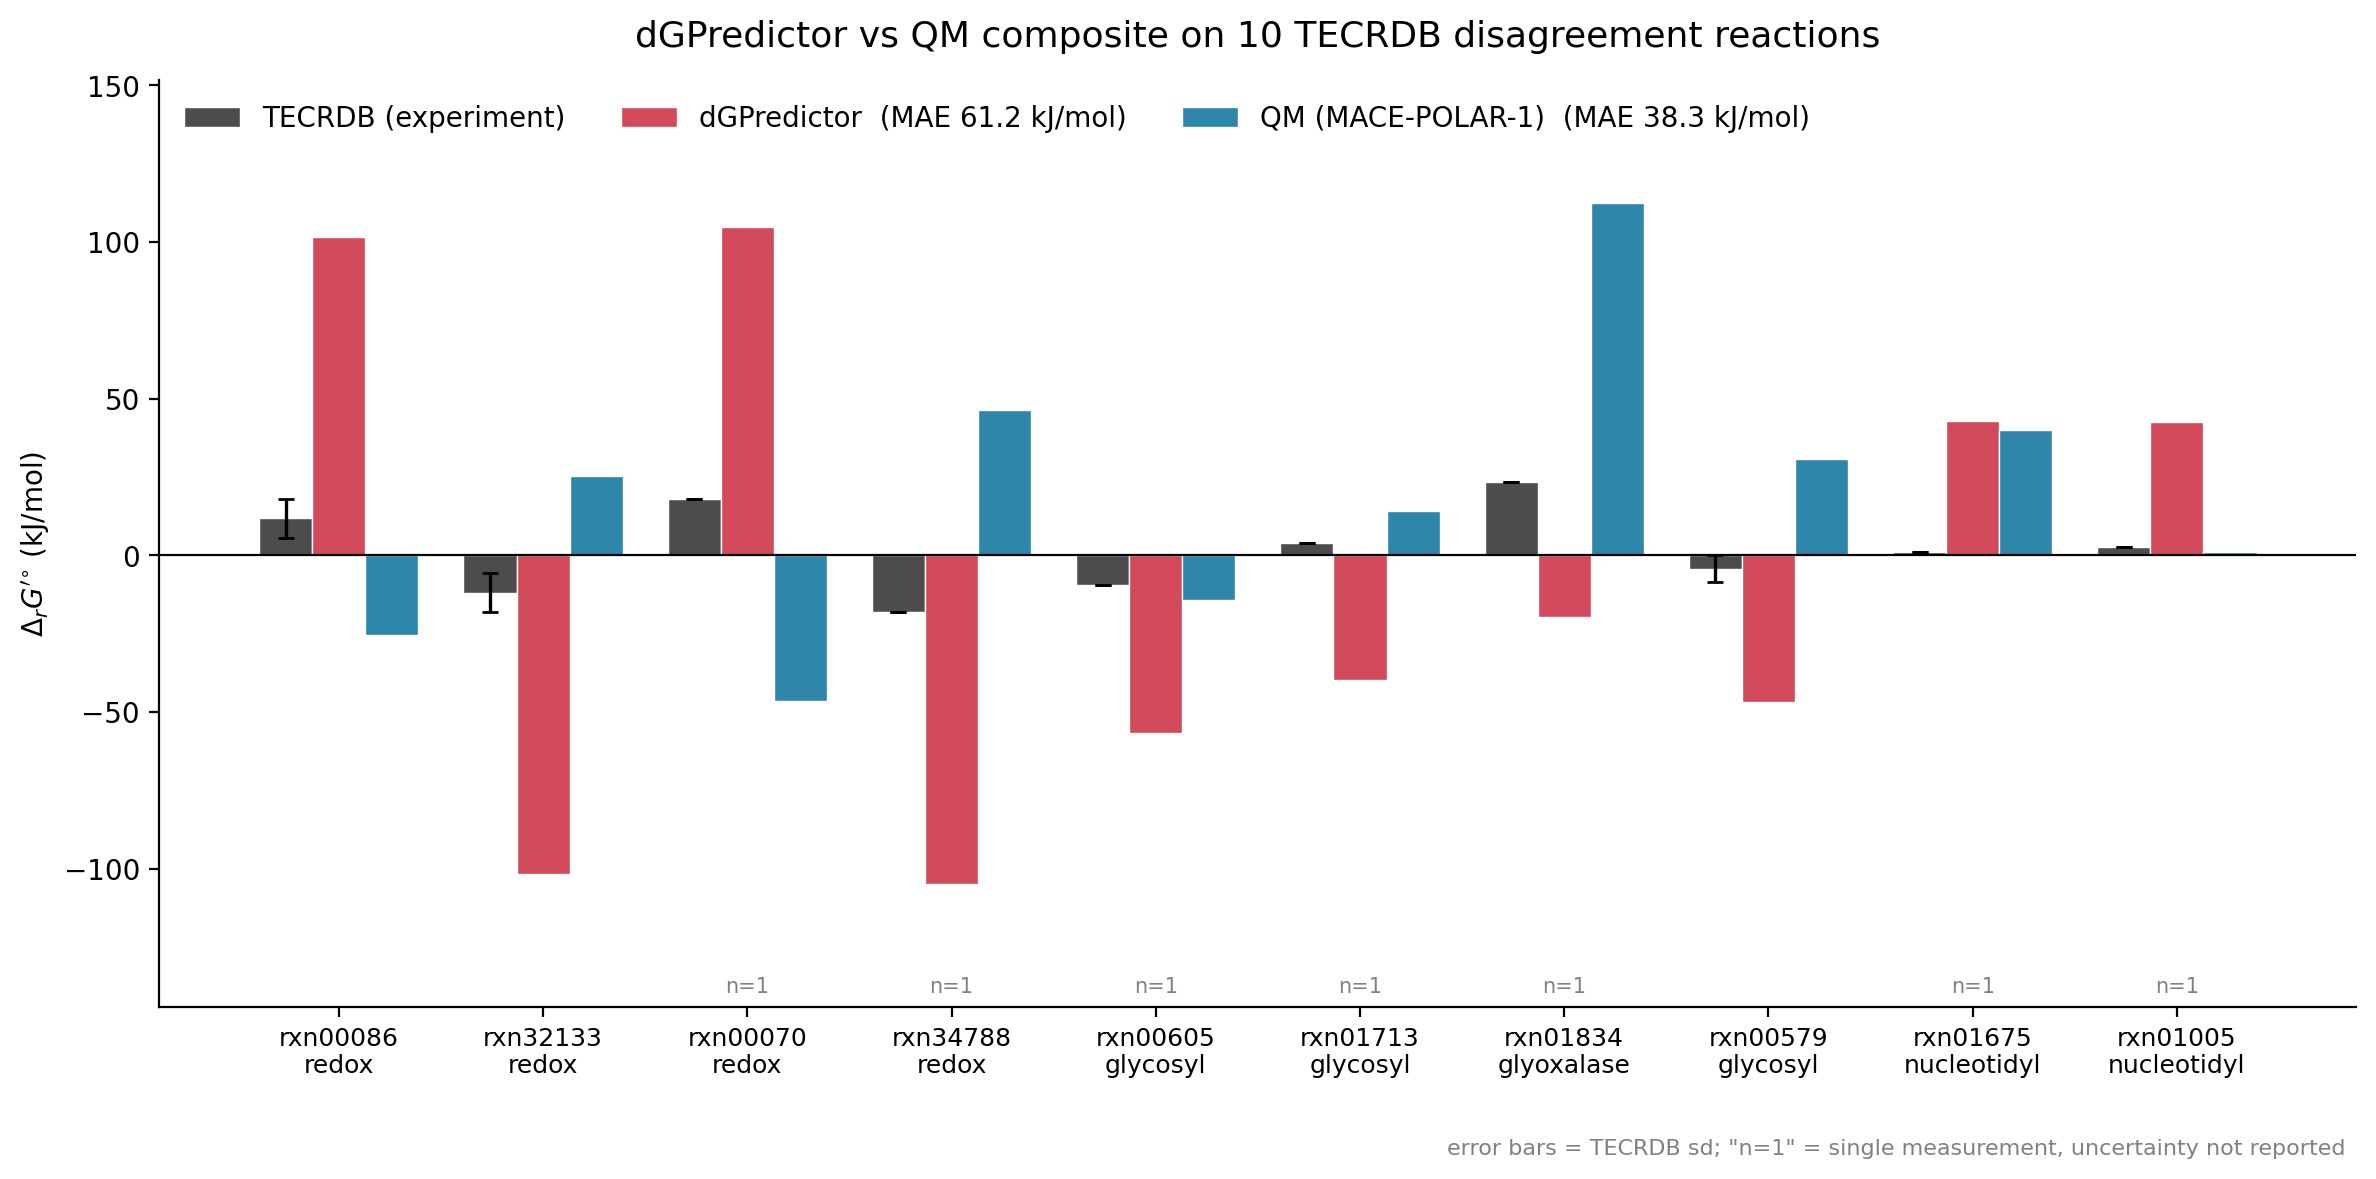
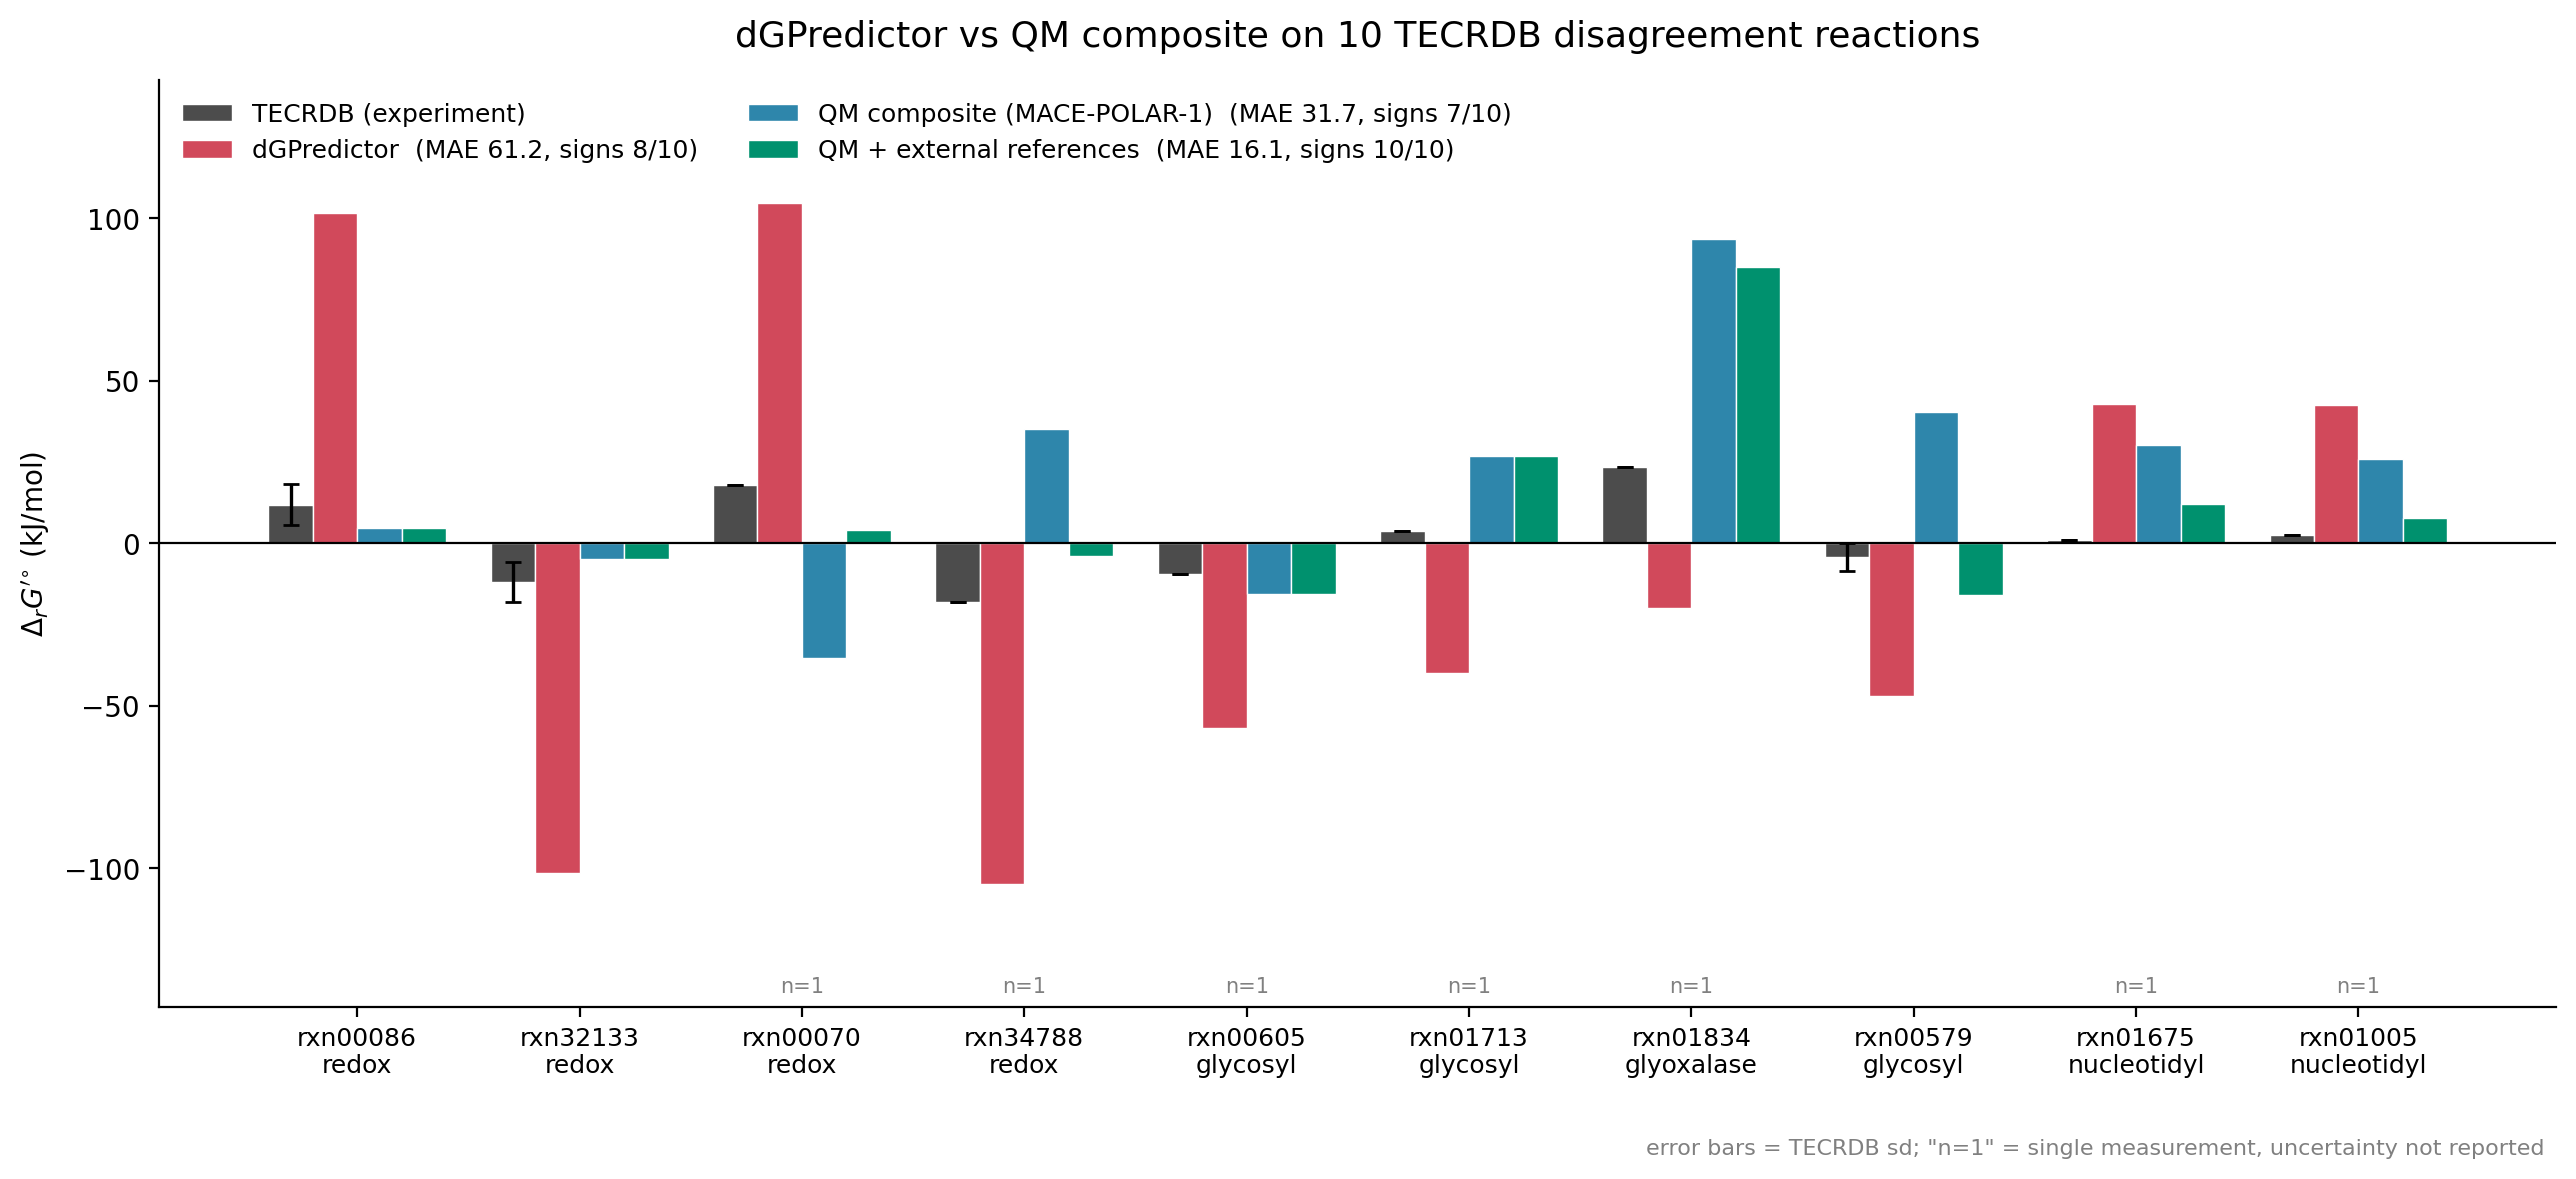
Fix the comparison figure: plot the reported baseline, add the referenced column
The committed figure was wrong in three ways and had been read as the result.

1. It plotted "fixed-species pH midpoint [diag]" and captioned it "QM". That
   column is a sensitivity diagnostic, not the reported model, and it overstated
   the error as 38.3 where the baseline is 31.7.
2. It predated the GSH thiol microspecies fix (its rxn00086 QM bar was -26; the
   current value is +4.7).
3. It had no external-reference series at all.

plot_comparison.py now draws the reported baseline plus the referenced column,
skipping any series absent from the CSV so it still works in --pH-mode fixed.
Bar offsets are computed from the series count rather than hardcoded for three.
Legends carry sign counts as well as MAE. The reaction-class second label line,
present in the old rendering but not in the committed script, is restored from
reaction_classes.json.

Regenerated from the current perreaction_dG.csv and synced to the two tracked
copies (pipeline/, slides/figures/).

diff --git a/pipeline/plot_comparison.py b/pipeline/plot_comparison.py
@@ -5,6 +5,7 @@ dGPredictor-TECRDB disagreement reactions.
 Run:  python plot_comparison.py
 """
 import csv
+import json
 import os
 
 import matplotlib
@@ -18,9 +19,16 @@ CSV = os.path.join(THERMO, "results", "benchmark", "perreaction_dG.csv")
 RXN_CSV = os.path.join(HERE, "top10_reactions_stereo_significant.csv")
 OUT = os.path.join(THERMO, "results", "benchmark", "qm_vs_dgpredictor_top10.png")
 
+# The reported baseline is "pH7 fixed species".  The pH-midpoint column is a
+# sensitivity diagnostic and must not be presented as the model -- an earlier
+# version of this figure plotted it and captioned it as "QM", which overstated
+# the error (38.3 rather than the baseline 31.7).  Series absent from the CSV
+# are skipped, so this works whichever --pH-mode produced it.
 SERIES = [("exp", "TECRDB (experiment)", "#4C4C4C"),
           ("dGP", "dGPredictor", "#D1495B"),
-          ("fixed-species pH midpoint [diag]", "QM (fixed-species pH midpoint)", "#2E86AB")]
+          ("pH7 fixed species", "QM composite (MACE-POLAR-1)", "#2E86AB"),
+          ("QM + external references [param-free]",
+           "QM + external references", "#00916E")]
 
 
 def main():
@@ -30,8 +38,9 @@ def main():
     rows.sort(key=lambda r: int(r["rank"]))
 
     x = np.arange(len(rows))
-    width = 0.26
-    series = {k: [float(r[k]) for r in rows] for k, _, _ in SERIES}
+    present = [s for s in SERIES if s[0] in rows[0]]
+    width = 0.8 / len(present)
+    series = {k: [float(r[k]) for r in rows] for k, _, _ in present}
 
     # Experimental uncertainty. A blank/0.0 sd means "not reported" (these are
     # single-measurement entries), NOT a zero-uncertainty measurement -- so those
@@ -45,14 +54,16 @@ def main():
         sd.append(s if (s > 0 and n > 1) else 0.0)
         n_meas.append(n)
 
-    fig, ax = plt.subplots(figsize=(12, 6))
-    for i, (key, label, color) in enumerate(SERIES):
+    fig, ax = plt.subplots(figsize=(13, 6))
+    offset = (len(present) - 1) / 2.0
+    for i, (key, label, color) in enumerate(present):
         if key == "exp":
             leg = label
         else:
             mae = np.mean([abs(p - e) for p, e in zip(series[key], series["exp"])])
-            leg = f"{label}  (MAE {mae:.1f} kJ/mol)"
-        ax.bar(x + (i - 1) * width, series[key], width, label=leg, color=color,
+            signs = sum(p * e > 0 for p, e in zip(series[key], series["exp"]))
+            leg = f"{label}  (MAE {mae:.1f}, signs {signs}/{len(rows)})"
+        ax.bar(x + (i - offset) * width, series[key], width, label=leg, color=color,
                edgecolor="white", linewidth=0.5,
                yerr=sd if key == "exp" else None,
                error_kw=dict(ecolor="black", capsize=3, lw=1.2))
@@ -70,9 +81,19 @@ def main():
     ax.set_ylabel(r"$\Delta_r G'^{\circ}$ (kJ/mol)")
     ax.set_title("dGPredictor vs QM composite on 10 TECRDB disagreement reactions",
                  fontsize=13, pad=12)
+    # Second label line is the reaction class: the corrections are per class, so
+    # reading the figure without it hides why neighbouring bars behave alike.
+    classes = {}
+    class_path = os.path.join(HERE, "reaction_classes.json")
+    if os.path.exists(class_path):
+        pretty = {"thiolate_redox": "redox", "glycosyl_transfer": "glycosyl",
+                  "phosphate_transfer": "nucleotidyl", "other": "glyoxalase"}
+        raw = json.load(open(class_path))
+        classes = {k: pretty.get(v, v) for k, v in raw.items()}
     ax.set_xticks(x)
-    ax.set_xticklabels([r["rxn"] for r in rows], fontsize=9)
-    ax.legend(frameon=False, ncol=3, loc="upper left")
+    ax.set_xticklabels([f"{r['rxn']}\n{classes.get(r['rxn'], '')}".rstrip()
+                        for r in rows], fontsize=9)
+    ax.legend(frameon=False, ncol=2, loc="upper left", fontsize=9)
     ax.text(0.995, -0.16, "error bars = TECRDB sd; \"n=1\" = single measurement, "
             "uncertainty not reported", transform=ax.transAxes, ha="right",
             fontsize=8, color="gray")
